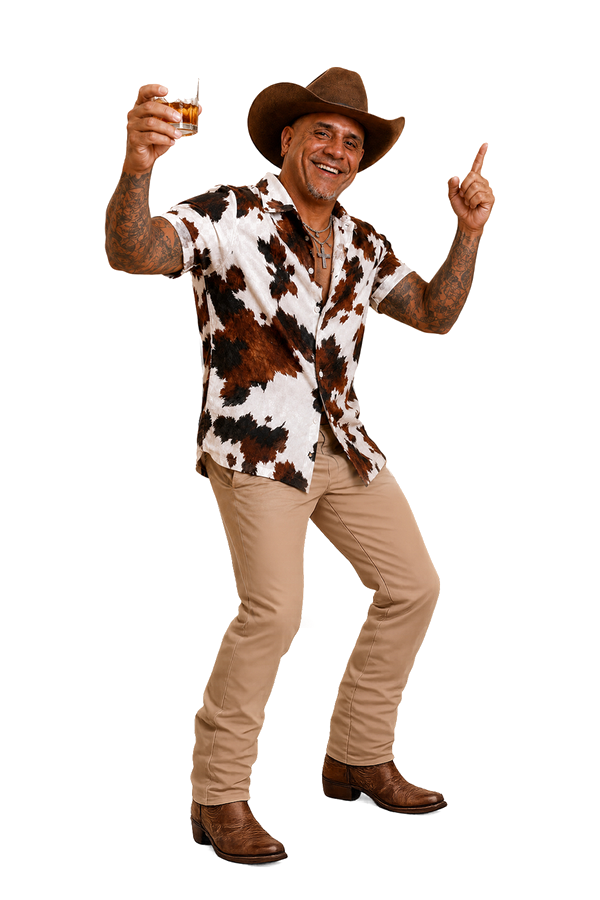
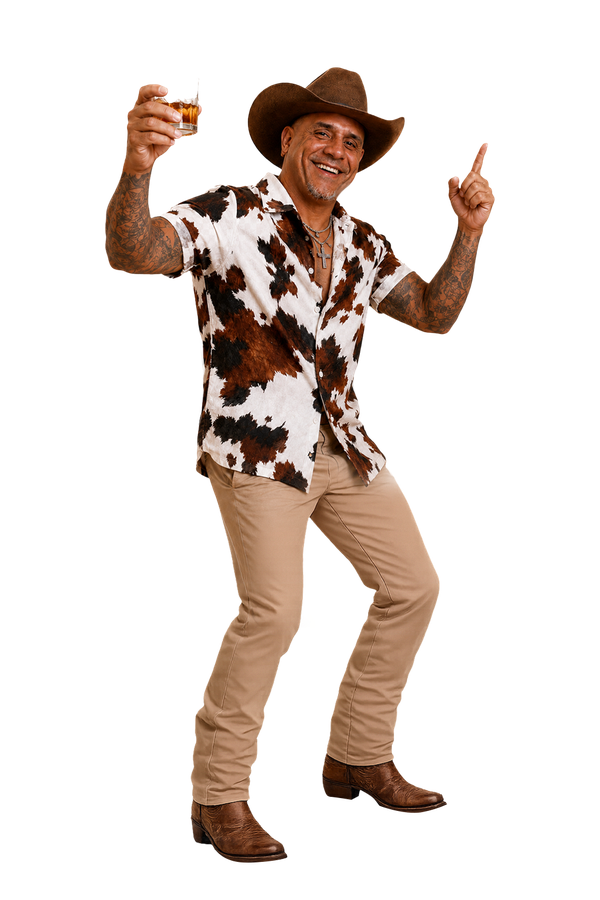
v5.12: revised eric cutout (no white-feet residue)

diff --git a/index.html b/index.html
@@ -134,7 +134,7 @@
      both L+R share animation-delay so vertical translateY is identical at every t. */
   .day-flank.left  { --rot:-3deg; animation-delay:-1.2s; transform:rotate(-3deg); }
   .day-flank.right { --rot:3deg;  animation-delay:-1.2s; transform:rotate(3deg);  }
-  /* Eric: new image (v5.11 2026-05-23) has full-body including boots — use default object-position. */
+  /* Eric: revised image (v5.12 2026-05-23) — clean cutout, no white-feet residue. */
 
   /* MOBILE-ONLY overrides (Ben spec 2026-05-22 v5.5):
      - cutouts WAY BIGGER via absolute positioning (escape grid); body bleeds off-screen edges
